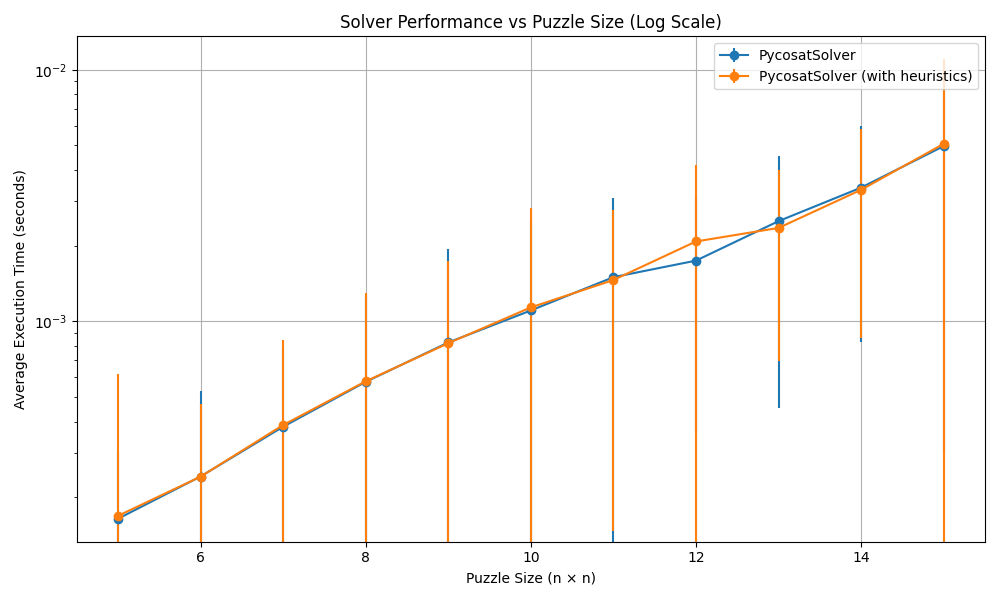
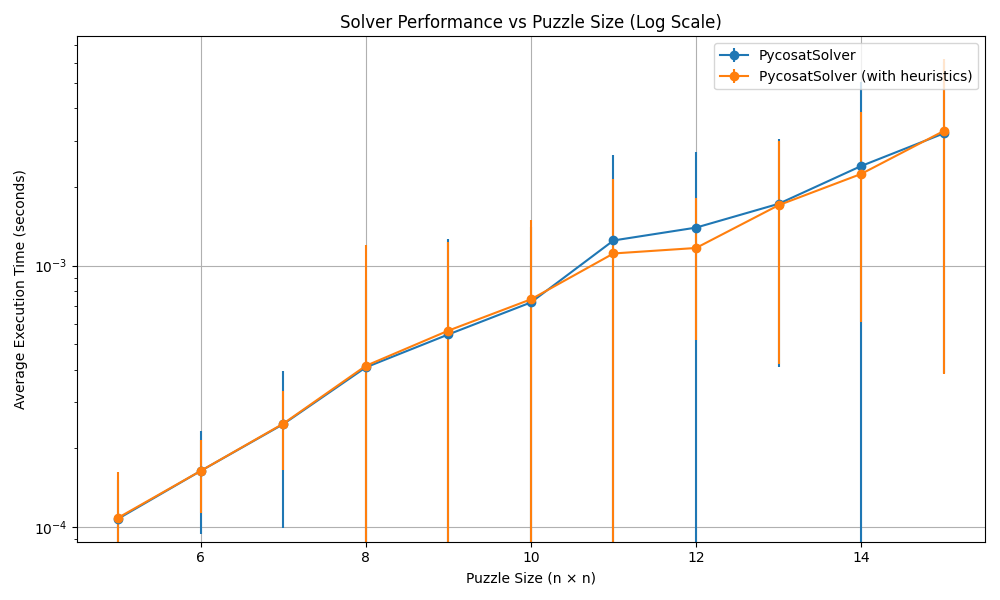
new heuristic

diff --git a/generate_puzzle.py b/generate_puzzle.py
@@ -219,26 +219,23 @@ def generate_multiple_puzzles(n=9, num_puzzles=100, max_changes=10000, output_di
     print(f"Generated {num_puzzles} puzzles of size {n}x{n}")
 
 if __name__ == "__main__":
-    for n in range(16, 18):
-        generate_multiple_puzzles(n, 100, 500)
+    # for n in range(16, 18):
+    #     generate_multiple_puzzles(n, 100, 500)
 
-    # # Generate a puzzle
-    # board = generate_puzzle(n=11, max_changes=10000)
-    # assert board == convert_txt_line_to_board(convert_board_to_txt_line(board))
-    # print_solution(board)
+    # Generate a puzzle
+    board = generate_puzzle(n=9, max_changes=1000)
+    assert board == convert_txt_line_to_board(convert_board_to_txt_line(board))
+    print_solution(board)
     
-    # # Visualize the board
-    # visualize_board(board)
-    
-    # # Verify using the solver
-    # print("\nVerifying with PycosatSolver:")
-    # pycosat_solver = PycosatSolver(board)
-    # pycosat_solution = pycosat_solver.solve()
-    # if pycosat_solution:
-    #     pycosat_solver.print_solution()
-    # else:
-    #     print("No solution found by PycosatSolver. The puzzle may be invalid.")
-    # print("\nVerifying with BacktrackSolver:")
+    # Verify using the solver
+    print("\nVerifying with PycosatSolver:")
+    pycosat_solver = PycosatSolver(board)
+    pycosat_solution = pycosat_solver.solve()
+    if pycosat_solution:
+        pycosat_solver.print_solution()
+    else:
+        print("No solution found by PycosatSolver. The puzzle may be invalid.")
+    print("\nVerifying with BacktrackSolver:")
     # backtrack_solver = BacktrackSolver(board)
     # backtrack_solution = backtrack_solver.solve()
     # if backtrack_solution:
@@ -246,3 +243,6 @@ if __name__ == "__main__":
     # else:
     #     print("No solution found by BacktrackSolver. The puzzle may be invalid.")
     # assert(pycosat_solution == backtrack_solution)
+
+    # Visualize the board
+    visualize_board(board)

diff --git a/pycosat_solver.py b/pycosat_solver.py
@@ -152,6 +152,31 @@ class PycosatSolver:
         #                         current_region = self.board[row][col]
         #                         if current_region != r1 and current_region != r2 and current_region != r3:
         #                             self.clauses.append([-self.var_index(row, col)])
+
+        # # Look at all eliminated cells from placing a queen, and make sure that a region is not completely eliminated
+        # for r1 in range(self.n):
+        #     for c1 in range(self.n):
+        #         # attempt placing a queen here
+        #         eliminated_region_position_counts = {}
+        #         for r2 in range(self.n):
+        #             if r1 != r2:
+        #                 eliminated_region_position_counts[self.board[r2][c1]] = eliminated_region_position_counts.get(self.board[r2][c1], 0) + 1
+
+        #         for c2 in range(self.n):
+        #             if c1 != c2:
+        #                 eliminated_region_position_counts[self.board[r1][c2]] = eliminated_region_position_counts.get(self.board[r1][c2], 0) + 1
+
+        #         diagonals = [(r1-1, c1-1), (r1-1, c1+1), (r1+1, c1-1), (r1+1, c1+1)]
+
+        #         for d_row, d_col in diagonals:
+        #             if 0 <= d_row < self.n and 0 <= d_col < self.n:
+        #                 eliminated_region_position_counts[self.board[d_row][d_col]] = eliminated_region_position_counts.get(self.board[d_row][d_col], 0) + 1
+
+        #         for region in eliminated_region_position_counts:
+        #             # If a region is completely eliminated, add a negative constraint
+        #             if eliminated_region_position_counts[region] == len(region_positions[region]):
+        #                 self.clauses.append([-self.var_index(r1, c1)])
+                
     
     def solve(self):
         """Set up constraints and solve queens yay"""
